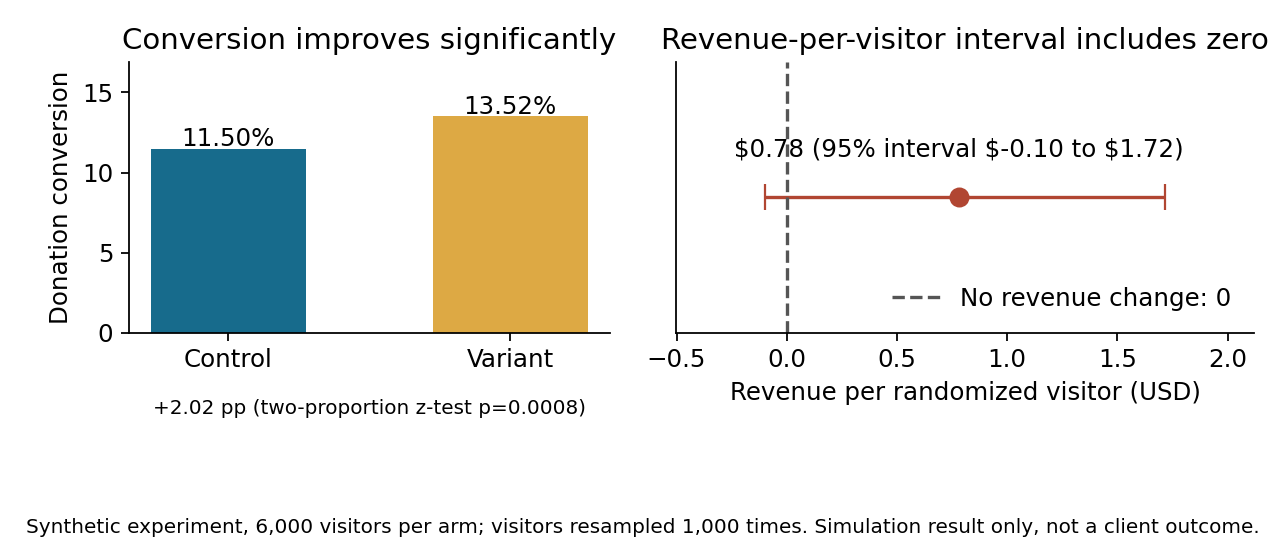
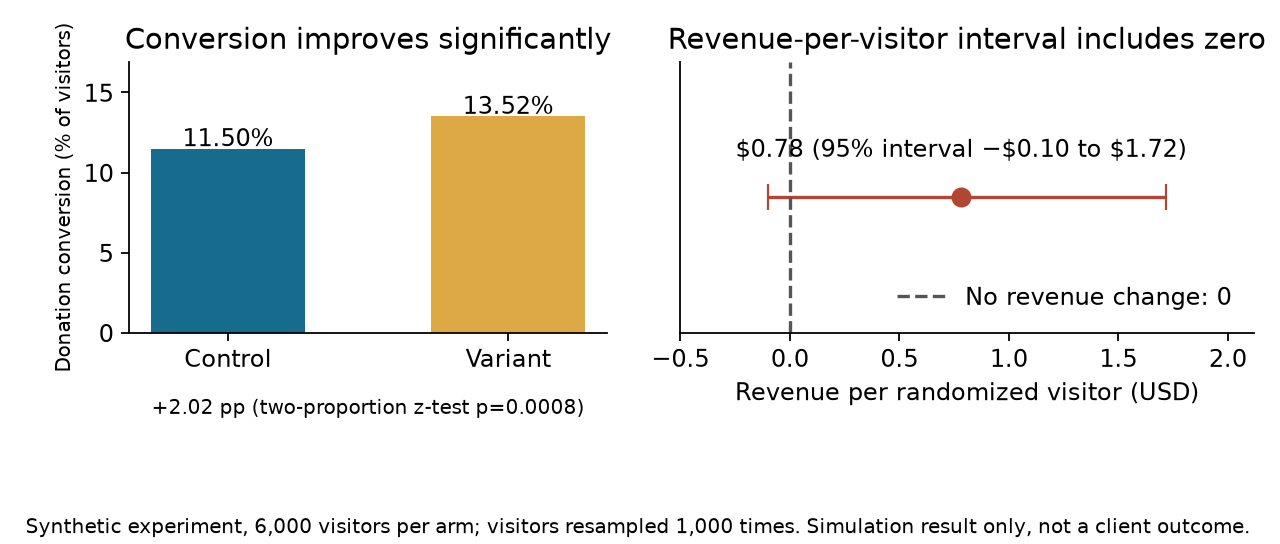
Review case 5: verified outputs, idempotent bootstrap interval, figure and README

diff --git a/render_portfolio_figures.py b/render_portfolio_figures.py
@@ -128,13 +128,15 @@ fig,(ax1,ax2)=plt.subplots(1,2,figsize=(8,3.4),gridspec_kw={'width_ratios':[1,1.
 groups=['control','variant'];conv=[100*sum(v>0 for v in ns['outcomes'][g])/len(ns['outcomes'][g]) for g in groups]
 bars=ax1.bar(['Control','Variant'],conv,color=['#176b8c','#dda944'],width=.55)
 for bar,value in zip(bars,conv):ax1.text(bar.get_x()+bar.get_width()/2,value+.15,f'{value:.2f}%',ha='center')
-ax1.set(ylim=(0,max(conv)*1.25),ylabel='Donation conversion',title='Conversion improves significantly')
+ax1.set(ylim=(0,max(conv)*1.25),title='Conversion improves significantly')
+ax1.set_ylabel('Donation conversion (% of visitors)',fontsize=9)
 ax1.text(.5,-.30,f"+{100*(ns['p_v']-ns['p_c']):.2f} pp (two-proportion z-test p={ns['p_value_conversion']:.4f})",transform=ax1.transAxes,ha='center',fontsize=9)
 est=ns['rpv_difference'];lo=ns['low'];hi=ns['high']
 ax2.errorbar(est,0,xerr=[[est-lo],[hi-est]],fmt='o',color='#b14632',capsize=6,markersize=8)
 ax2.axvline(0,color='#555555',linestyle='--',label='No revenue change: 0')
 ax2.set(xlim=(lo-.4,hi+.4),ylim=(-.6,.6),yticks=[],xlabel='Revenue per randomized visitor (USD)',title='Revenue-per-visitor interval includes zero')
-ax2.text(est,.18,f'${est:.2f} (95% interval ${lo:.2f} to ${hi:.2f})',ha='center')
+usd=lambda v:('\u2212' if v<0 else '')+'$'+f'{abs(v):.2f}'
+ax2.text(est,.18,f'{usd(est)} (95% interval {usd(lo)} to {usd(hi)})',ha='center')
 ax2.legend(loc='lower right',frameon=False)
 fig.text(.02,.02,'Synthetic experiment, 6,000 visitors per arm; visitors resampled 1,000 times. Simulation result only, not a client outcome.',fontsize=9)
 fig.tight_layout(rect=(0,.10,1,1))

diff --git a/5-donation-checkout-ab-test/README.md b/5-donation-checkout-ab-test/README.md
@@ -1,32 +1,61 @@
 # Did removing the preset gift amount improve a donation checkout?
 
+**Project 5 · Fundraising analytics · Take-home assessment**
+
 ## The decision
 
-A donation platform tested a checkout change: remove the prefilled amount from the one-time giving form. The team needed to decide whether the variant increased donations without reducing the money raised per visitor.
+A donation platform tested a checkout change: remove the prefilled amount from the one-time giving form. The team needs to decide whether the variant raises more money per visitor, not only whether it produces more donors.
 
-## What the assessment analysis found
+## The analytical challenge
 
 The assessment output reported a higher donation conversion rate for the variant and a higher point estimate for revenue per checkout visitor. It also reported no detectable difference in gift amount among donors.
 
-That result did not settle the revenue question. The notebook tested conversion with a two-proportion test, but tested donation event amounts among donors with a t-test. That test does not establish whether total revenue per randomized visitor changed. Repeated gifts from one donor also are not independent observations.
+That result did not settle the revenue question. The assessment analysis tested conversion with a two-proportion test but tested donation event amounts among donors with a t-test. A test on gift amounts conditions on donating and cannot establish whether total revenue per randomized visitor changed. Repeated gifts from one donor also are not independent observations.
 
-## Better decision metrics
+## Data
 
-Use revenue per randomized checkout visitor as the primary business metric. Give visitors with no donation a revenue value of zero. This metric includes both the chance to donate and the total amount donated.
+All records are synthetic, generated in the notebook with `random.seed(205)`. The original assessment records and exact results are not included.
 
-Use donation conversion, average gift among donors, and recurring-gift rate as diagnostic metrics. Keep the randomization unit as the visitor and aggregate all of each visitor's eligible gifts before testing revenue.
+The generator creates 12,000 randomized checkout visitors (6,000 per arm) and 17,393 event rows (checkout views and charges). A visitor can open the checkout one to three times; donors give once or through two to three recurring charges. It plants two known inputs: the variant donates more often (12.6% versus 11.6% chance per visitor) and gives slightly smaller gifts (lognormal amounts scaled by 0.92). These values are simulation inputs, not findings.
 
-## Public demonstration
+## Metric contract
 
-The notebook recreates the decision with generated event data. The synthetic scenario has a conversion lift and slightly smaller gifts. It compares conversion between arms and estimates the revenue-per-visitor difference by resampling visitors. The results apply only to that simulation.
+- **revenue per randomized checkout visitor** — the sum of a visitor's eligible charges in the experiment window, divided by unique randomized checkout visitors in that arm, in USD. Primary decision metric. Visitors with no donation stay in the denominator with zero revenue.
+- **donation conversion** — donors divided by randomized checkout visitors. Diagnostic.
+- **revenue per donor** — total revenue divided by donors, in USD. Diagnostic.
+- **Unit of analysis** — the visitor. Each visitor contributes one outcome row with all eligible charges summed, so repeat checkout views and repeat charges are never treated as independent observations.
+- **Assignment** — the randomization unit is the visitor, with one stable group label per visitor.
+- **Uncertainty** — conversion is compared with a two-sided two-proportion z-test; the revenue-per-visitor difference gets a visitor-level bootstrap interval (1,000 resamples of visitors within each arm).
+- **Revenue window** — the synthetic record includes every generated charge for a visitor. A live analysis must predefine the window and decide how recurring charges, refunds, and chargebacks count.
 
-The original assessment records and exact results are not included.
+## What the notebook reports (all synthetic)
+
+Verified in one clean run on 2026-11-05:
+
+- 6,000 randomized visitors per arm (12,000 total); 17,393 event rows.
+- Control: 690 donors, conversion 11.50%, revenue per visitor $5.75, revenue per donor $50.03.
+- Variant: 811 donors, conversion 13.52%, revenue per visitor $6.53, revenue per donor $48.35.
+- Conversion difference +2.02 percentage points (two-sided p = 0.0008).
+- Revenue-per-visitor difference **+$0.78 with a 95% visitor-bootstrap interval of −$0.10 to $1.72**. The interval includes zero, so this simulation does not establish a revenue-per-visitor improvement even though conversion improves clearly.
+
+![Conversion by arm, and the revenue-per-visitor difference with its bootstrap interval versus no revenue change](outputs/revenue_per_visitor.png)
+
+The left panel shows the conversion lift (11.50% to 13.52%, p = 0.0008). The right panel places the revenue-per-visitor difference on its interval: the interval crosses zero, so in this sample more donors did not translate into a proven revenue gain. Both panels describe the simulation only.
+
+## Limits
+
+1. The result describes one fixed-seed simulation. A single run does not validate an estimator; repeated simulations would be needed to assess bias and interval coverage.
+2. The synthetic scenario plants a conversion lift and slightly smaller gifts. The demonstration shows how the decision metric behaves, not that the checkout change raises more money.
+3. Revenue per donor is heavy-tailed in the generator (lognormal gifts), so the revenue interval is wide; this sample alone cannot rule out a small gain or a small loss per visitor.
+4. Refunds and chargebacks are not simulated. A live analysis must include them in the revenue window and check that assignment labels stay stable across events.
+
+Before shipping the change, also confirm: stable visitor assignment, the attribution window, and total visitor-level revenue with zeros included. Predefine one primary metric and guardrails, and review revenue per visitor together with conversion, gift size, recurring gifts, and refunds. If the assignment or window definitions are weak, report the result as an association and extend or rerun the test.
 
 ## Recommendation
 
 The assessment supports a promising conversion result, but it does not prove a revenue-per-visitor improvement. Before shipping the change, verify stable visitor assignment, define the attribution window, and analyze total visitor-level revenue with zeros included. Review conversion, revenue per visitor, average gift, recurring gifts, and refunds together.
 
-## People and process questions
+## Stakeholder questions
 
 - Which outcome determines whether the checkout change ships: more donors or more net revenue?
 - Is the assignment label written once per visitor and kept stable across events?
@@ -40,6 +69,19 @@ Microsoft's experimentation guidance stresses that outcome data must link to the
 
 Virtuous describes revenue per visitor, conversion, average gift, and recurring-gift conversion as distinct donation-page goals. The team must select the goal that matches the campaign decision before the test starts. [Virtuous: A/B Testing in Virtuous Raise](https://virtuous.org/blog/a-b-testing-virtuous-raise/)
 
-## Reproducible files
+## Reproduction
 
-Open [`5-donation-checkout-ab-test.ipynb`](5-donation-checkout-ab-test.ipynb) in Jupyter or Google Colab. It uses Python's standard library and synthetic data only.
+1. The notebook uses only the Python standard library and needs no data files. Open [`5-donation-checkout-ab-test.ipynb`](5-donation-checkout-ab-test.ipynb) in Jupyter and run all cells. The stored outputs were produced in one clean Jupyter-kernel run on 2026-11-05 (Python 3.14) and are deterministic under seed 205 (the bootstrap checkpoints and restores the generator state, so re-running the resampling cell returns the same interval). Expected outputs: 12,000 visitors, 17,393 event rows, and the conversion, revenue, and interval numbers quoted above.
+2. The published figure is generated from the repository root with:
+
+```bash
+python -m pip install matplotlib==3.10.8
+python render_portfolio_figures.py
+```
+
+The script executes the notebook's code cells as its single source of truth and writes `outputs/revenue_per_visitor.png`. The figure was verified with matplotlib 3.11.2 on 2026-11-05.
+
+## Files
+
+- [Case folder](.)
+- [Synthetic analysis notebook](5-donation-checkout-ab-test.ipynb)

diff --git a/TODO.md b/TODO.md
@@ -1,6 +1,6 @@
 # Review TODO — cases 4–11
 
-Proofreading and diagram review of all 11 cases (see `CHANGELOG.md` for the finished work). Cases 1–4 are done (2026-11-04). Process: one case per run, waiting for approval between cases.
+Proofreading and diagram review of all 11 cases (see `CHANGELOG.md` for the finished work). Cases 1–5 are done (2026-11-04 to 2026-11-05). Process: one case per run, waiting for approval between cases.
 
 Publishing is gated on this review pass: a case's LinkedIn post goes out only after its review is done. Post dates and todos: `~/projects/job-search/LINKEDIN_PUBLISHING.md`; plan: `LINKEDIN_PLAN.md`.
 
@@ -17,10 +17,8 @@ Publishing is gated on this review pass: a case's LinkedIn post goes out only af
 ### Case 4 — `4-gameplay-change-evaluation` — done 2026-11-04
 Bootstrap made reproducible with a fixed per-metric seed; guardrail results added; `outputs/did_damage.png` figure; README rewritten with metric contract and relative links.
 
-### Case 5 — `5-donation-checkout-ab-test`
-- `outputs/revenue_per_visitor.png` exists but the README never references it — add the embed and caption.
-- Execute the notebook (currently unexecuted) and store outputs; they must agree with the renderer's numbers: 6,000 visitors per arm, conversion 11.50% control vs 13.52% variant (p = 0.0008), revenue per visitor $5.75 vs $6.53, difference $0.78 with 95% bootstrap interval (−$0.10, $1.72).
-- Keep the core framing: a conversion win alone does not settle the revenue decision.
+### Case 5 — `5-donation-checkout-ab-test` — done 2026-11-05
+Executed and stored outputs; every number matches the renderer exactly (6,000 per arm; conversion 11.50% vs 13.52%, p = 0.0008; RPV $5.75 vs $6.53; difference $0.78, interval −$0.10 to $1.72). Bootstrap interval made idempotent via an RNG checkpoint/restore around the resampling (the case-4 bug class; no number changed). Figure re-rendered with a proper minus sign and units-bearing axis label; README rewritten with metric contract, verified findings, figure embed and caption, and a reproduction section.
 
 ### Case 6 — `6-funnel-channel-attribution`
 - Notebook only (4 code cells), no figures.

diff --git a/CHANGELOG.md b/CHANGELOG.md
@@ -2,6 +2,23 @@
 
 Notable changes to the portfolio cases. Newest entries first. Dates are commit dates.
 
+## 2026-11-05 — Case review pass, case 5
+
+### Case 5 — `5-donation-checkout-ab-test`
+
+- Notebook executed in a clean kernel and outputs stored; every cited number
+  verified against the fresh run (6,000 visitors per arm; conversion 11.50% →
+  13.52%, p = 0.0008; revenue per visitor $5.75 → $6.53; difference +$0.78,
+  95% visitor-bootstrap interval −$0.10 to $1.72, includes zero).
+- The bootstrap interval is now idempotent: the resampling checkpoints and
+  restores the generator state, so re-running the cell always returns the same
+  interval (same bug class as case 4). No estimate changed.
+- `outputs/revenue_per_visitor.png` re-rendered: proper minus sign in the
+  currency interval and a units-bearing conversion axis label. The README now
+  embeds the figure with a caption.
+- README rewritten with metric contract, verified findings with denominators,
+  limits, and a reproduction section (tested versions and run date).
+
 ## 2026-11-05 — Interactive site and LinkedIn publishing setup
 
 - GitHub Pages site scaffold: `docs/` (landing page + case 1 narrative page,
